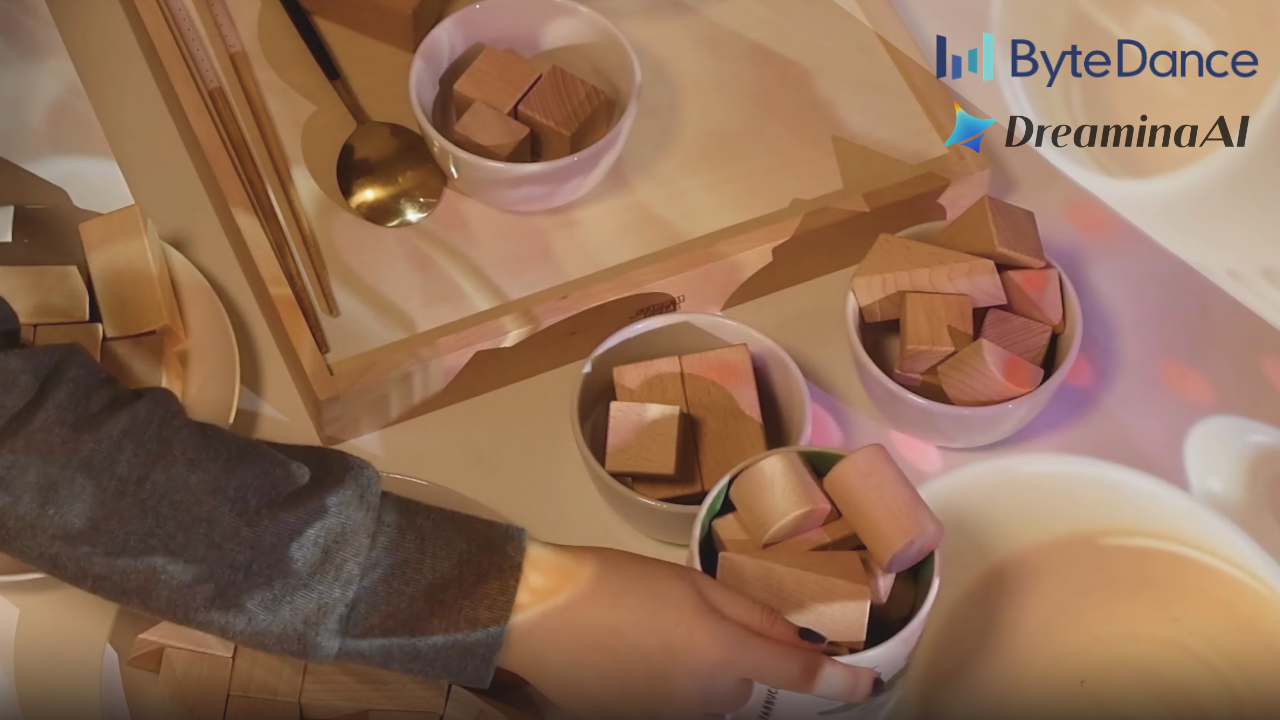
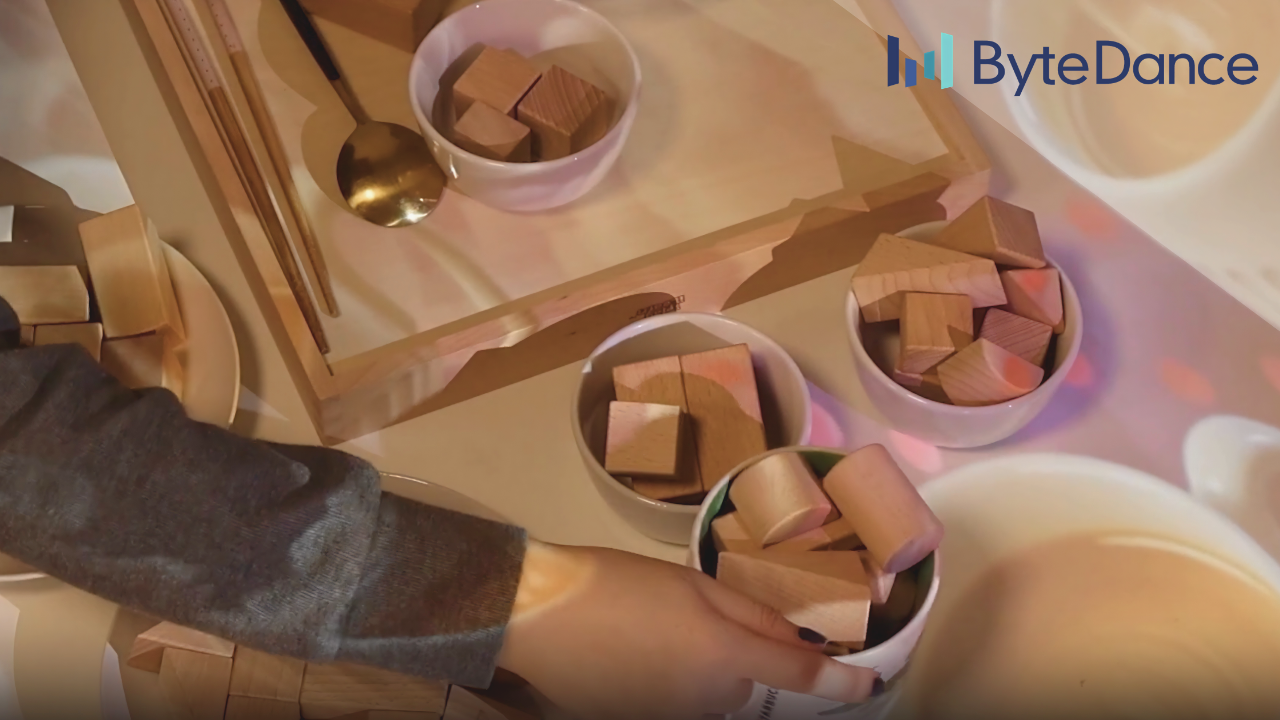
Update portfolio

Changed region(s): [[0.6875, 0.0306, 1.0, 0.1222], [0.7188, 0.1528, 1.0, 0.2139]]

diff --git a/about.html b/about.html
@@ -174,13 +174,13 @@
     <div class="about-education-item">
       <h3>Parsons School of Design, The New School</h3>
       <p>B.F.A. Design and Technology, GPA 3.99</p>
-      <em>Aug 2022 - May 2026</em>
+      <em>2022 - 2026</em>
     </div>
 
     <div class="about-education-item">
       <h3>University of Washington, Seattle</h3>
       <p>M.S. Human-Computer Interaction & Design</p>
-      <em>Expected in Aug 2027</em>
+      <em>Expected in Summer 2027</em>
     </div>
 
     <div class="about-education-logos">
@@ -222,7 +222,7 @@
         </p>
 
         <p class="about-work-date">
-          Aug 2025 - May 2026
+          2025 - 2026
         </p>
 
       </div>

diff --git a/explorear.html b/explorear.html
@@ -423,7 +423,7 @@
               </li>
 
             </ul>
-
+<br>
             <p class="media-question">
               “How can immersive VR make people sense their own
               bodies differently?”
